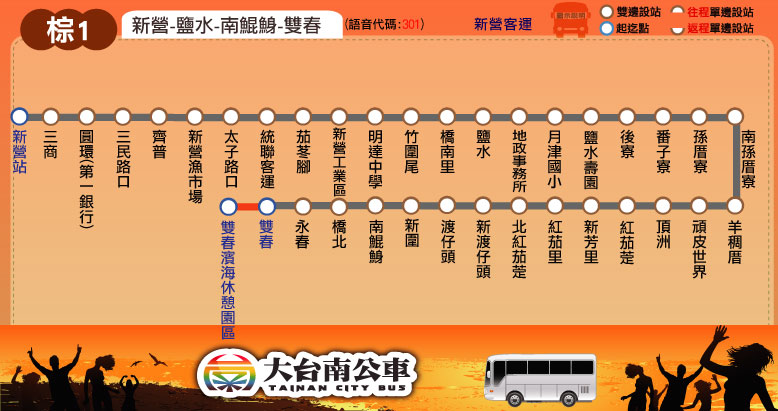
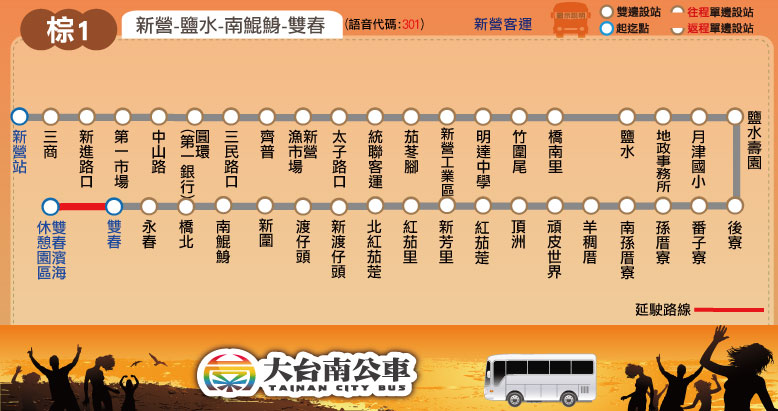
更新時刻表：棕幹線、棕1、棕11(各增2往返班次)；更新路線圖：棕1(繞駛第一市場)

diff --git a/route/fare_and_time/brown.js b/route/fare_and_time/brown.js
@@ -42,13 +42,13 @@ var end_stop = 3; // 鹽水
 var skip_stop_1 = 5; // 大埔
 var skip_stop_2 = 6; // 麻油寮
 var end_stop_2 = 7; // 學甲公所
-brown_time_go = [["05:50",start_stop,end_stop_2,[skip_stop_1]],["06:00",start_stop,end_stop,['L',[end_stop,2]]],["06:05",[skip_stop_2,'L']],["06:35",[skip_stop_1,'L']],["07:05",[skip_stop_2]],["07:35",[skip_stop_2]],["08:05",[skip_stop_1]],["08:35",[skip_stop_2]],["09:05",[skip_stop_2]],["09:35",[skip_stop_2,'L']],
+brown_time_go = [["05:50",start_stop,end_stop_2,[skip_stop_1]],["06:00",start_stop,end_stop,['L',[end_stop,2]]],["06:05",[skip_stop_2,'L']],["06:10",start_stop,end_stop_2,[skip_stop_1]],["06:35",[skip_stop_1,'L']],["07:05",[skip_stop_2]],["07:35",[skip_stop_2]],["08:05",[skip_stop_1]],["08:35",[skip_stop_2]],["09:05",[skip_stop_2]],["09:35",[skip_stop_2,'L']],
 ["10:05",[skip_stop_1,'L']],["10:35",[skip_stop_2]],["11:05",[skip_stop_2]],["11:35",[skip_stop_2]],["12:05",[skip_stop_2]],["12:35",[skip_stop_1]],["13:05",[skip_stop_2,'L']],["14:05",[skip_stop_2]],["14:35",[skip_stop_1,'L']],
-["15:05",[skip_stop_2]],["15:20",start_stop,end_stop_2,[skip_stop_1]],["15:35",[skip_stop_2,'L']],["16:05",[skip_stop_2,'L']],["16:35",[skip_stop_2]],["17:05",start_stop,end_stop,[[end_stop,5]]],["17:10",[skip_stop_1]],["17:35",[skip_stop_2,'L']],["18:15",[skip_stop_2]],
+["15:05",[skip_stop_2]],["15:20",start_stop,end_stop_2,[skip_stop_1]],["15:35",[skip_stop_2,'L']],["16:05",[skip_stop_2,'L']],["16:10",start_stop,end_stop_2,[skip_stop_1]],["16:35",[skip_stop_2]],["17:05",start_stop,end_stop,[[end_stop,5]]],["17:10",[skip_stop_1]],["17:35",[skip_stop_2,'L']],["18:15",[skip_stop_2]],
 ["19:05",[skip_stop_2]],["20:05",[skip_stop_2]]
 ];
-brown_time_return = [["06:30",end_stop,start_stop,['L',[start_stop,5]]],["06:00",[skip_stop_2]],["06:35",[skip_stop_1]],["07:05",[skip_stop_2]],["07:35",[skip_stop_2,'L']],["08:05",[skip_stop_1,'L']],["08:30",end_stop_2,start_stop,[skip_stop_1]],["08:35",[skip_stop_2]],["09:05",[skip_stop_2]],["09:35",[skip_stop_2]],
+brown_time_return = [["06:30",end_stop,start_stop,['L',[start_stop,5]]],["06:00",[skip_stop_2]],["06:35",[skip_stop_1]],["07:05",[skip_stop_2]],["07:35",[skip_stop_2,'L']],["08:00",end_stop_2,start_stop,[skip_stop_1]],["08:05",[skip_stop_1,'L']],["08:30",end_stop_2,start_stop,[skip_stop_1]],["08:35",[skip_stop_2]],["09:05",[skip_stop_2]],["09:35",[skip_stop_2]],
 ["10:05",[skip_stop_1]],["10:35",[skip_stop_2]],["11:05",[skip_stop_2,'L']],["11:35",[skip_stop_1,'L']],["12:05",[skip_stop_2]],["12:35",[skip_stop_2]],["13:05",[skip_stop_2]],["14:05",[skip_stop_1]],["14:35",[skip_stop_2,'L']],
-["15:05",[skip_stop_2]],["15:35",[skip_stop_2]],["16:05",[skip_stop_1,'L']],["16:35",[skip_stop_2]],["17:40",end_stop,start_stop,[[start_stop,5]]],["17:05",[skip_stop_2,'L']],["17:35",[skip_stop_2,'L']],["18:15",end_stop_2,start_stop,[skip_stop_1]],["18:05",[skip_stop_1]],
+["15:05",[skip_stop_2]],["15:35",[skip_stop_2]],["16:05",[skip_stop_1,'L']],["16:35",[skip_stop_2]],["17:40",end_stop,start_stop,[[start_stop,5]]],["17:05",[skip_stop_2,'L']],["17:35",[skip_stop_2,'L']],["18:00",end_stop_2,start_stop,[skip_stop_1]],["18:15",end_stop_2,start_stop,[skip_stop_1]],["18:05",[skip_stop_1]],
 ["19:05",[skip_stop_2,'L']],["20:05",[skip_stop_2]]
 ];

diff --git a/route/fare_and_time/brown_1.js b/route/fare_and_time/brown_1.js
@@ -1,6 +1,6 @@
 brown_1_interval_name = ["新營","茄苳腳","鹽水","後寮","番子寮","孫厝寮","羊稠厝","頂洲","紅茄萣","新芳里","紅茄里","北紅茄萣","新渡子頭","渡子頭","南鯤鯓","雙春","雙春濱海<br />遊憩區"];
 brown_1_interval_stop = [ // 2017.12.08 checked
-["新營站","三商","圓環(第一銀行)","三民路口","齊普","新營漁市場","太子路口","統聯客運"], // 新營
+["新營站","三商","第一市場","中山路","圓環(第一銀行)","三民路口","齊普","新營漁市場","太子路口","統聯客運"], // 新營
 ["茄苳腳","新營工業區","明達中學"], // 茄苳腳
 ["竹圍尾","橋南里","鹽水","地政事務所","月津國小","鹽水壽園"], // 鹽水
 ["後寮"], // 後寮
@@ -40,11 +40,11 @@ brown_1_fare = [
 // format = [time at the start stop] or
 // [time, other] or
 // [time, start_stop, end_stop, other]
-brown_1_main_stop_name = ["新營站","統聯客運","鹽水","頑皮世界","新芳里","南鯤鯓","雙春","雙春濱海<br />休憩園區"];
-brown_1_main_stop_time_consume = [0, 8, 18, 33, 41, 55, 60, 65];
+brown_1_main_stop_name = ["新營站","第一市場","鹽水","頑皮世界","新芳里","南鯤鯓","雙春","雙春濱海<br />休憩園區"];
+brown_1_main_stop_time_consume = [0, 4, 21, 36, 42, 57, 61, 65];
 brown_1_important_stop = [0, 2, 3, 5, 6, 7]; // 新營站, 鹽水, 頑皮世界, 南鯤鯓, 雙春, 雙春濱海遊憩區
 var start_stop = 0; // 新營
 var end_stop = 6; // 雙春
 var stop_1 = 2; // 鹽水
-brown_1_time_go = [["09:45"],["11:45"],["14:25"],["17:50",[[stop_1,1,stop_1+1,2]]]];
-brown_1_time_return = [["05:55",end_stop,start_stop,[[end_stop-1,-1,end_stop-2,1,stop_1,2]]],["11:00",[[end_stop-1,-1,end_stop-3,-1,start_stop+1,2]]],["13:00",[[end_stop-1,-1,end_stop-3,-1,start_stop+1,2]]],["15:40",[[end_stop-1,-1,end_stop-3,-1,stop_1,1,start_stop+1,1]]]];
+brown_1_time_go = [["07:20"],["09:45"],["10:20"],["11:45"],["14:25"],["17:50",[[stop_1,1,stop_1+1,2]]]];
+brown_1_time_return = [["05:50",end_stop,start_stop,[[stop_1+1,2,stop_1,1,start_stop,1]]],["08:35"],["11:00"],["11:35"],["13:00"],["15:40"]];

diff --git a/route/fare_and_time/brown_11.js b/route/fare_and_time/brown_11.js
@@ -19,5 +19,5 @@ brown_11_fare = [
 brown_11_main_stop_name = ["學甲","新芳里","頂洲"];
 brown_11_main_stop_time_consume = [0, 15, 20];
 brown_11_important_stop = [0, 2]; // 學甲, 頂洲
-brown_11_time_go = [["06:20",['L']],["10:50",['L']],["13:40",['L']],["18:00",['L']]];
-brown_11_time_return = [["06:40",['L']],["11:10",['L']],["14:00",['L']],["18:20",['L']]];
+brown_11_time_go = [["06:20",['L']],["07:00"],["10:50",['L']],["13:40",['L']],["17:00"],["18:00",['L']]];
+brown_11_time_return = [["06:40",['L']],["07:20"],["11:10",['L']],["14:00",['L']],["17:20"],["18:20",['L']]];
